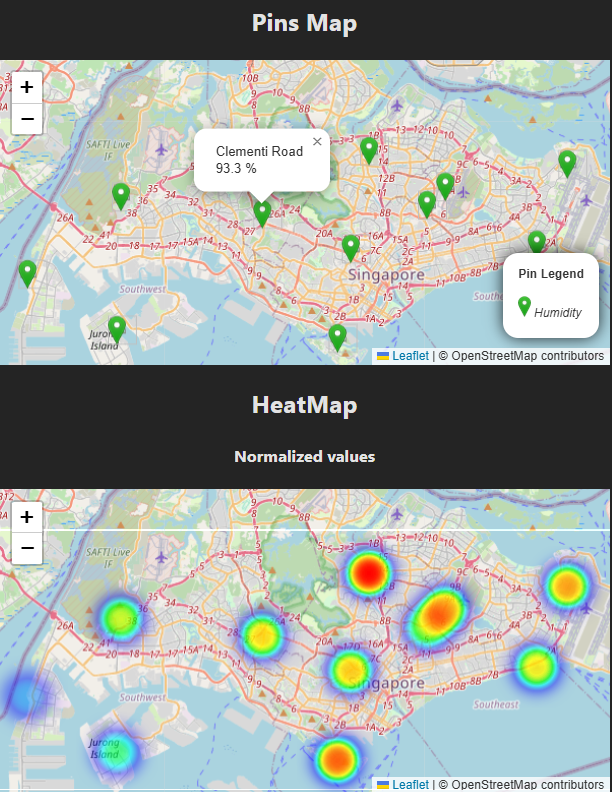
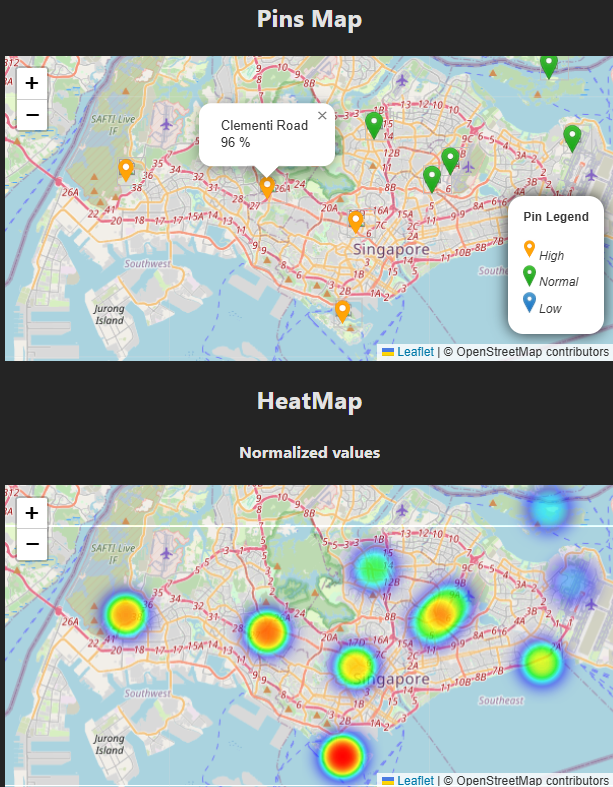
added threshold for the local weather

diff --git a/components/MapWeatherLocal.jsx b/components/MapWeatherLocal.jsx
@@ -17,24 +17,38 @@ const MapWeatherLocal = ({ centerCoordinate, zoomValue, type, weatherData }) => 
     const [legendIconDescList, setLegendIconDescList] = useState()
     const [legendHtml, setLegendHtml] = useState()
     const [isWindData, setIsWindData] = useState(false)
+    const [upperThreshold, setUpperThreshold] = useState(null)
+    const [lowerThreshold, setLowerThreshold] = useState(null)
 
     useEffect(() => {
         if (type == "air_temp") {
-            setLegendIconDescList(["Air Temp"])
+            setLegendIconDescList(["High", "Normal", "Low"])
+            setLegendIconColorList(["-orange", "-green", ""])
+            setUpperThreshold(34)
+            setLowerThreshold(23)
         }
         else if (type == "rainfall") {
-            setLegendIconDescList(["Rainfall"])
+            setLegendIconDescList(["Rain", "Dry"])
+            setLegendIconColorList(["-orange", "-green"])
+            setUpperThreshold(0.001)
+            setLowerThreshold(null)
         }
         else if (type == "relative_humidity") {
-            setLegendIconDescList(["Humidity"])
+            setLegendIconDescList(["High", "Normal", "Low"])
+            setLegendIconColorList(["-orange", "-green", ""])
+            setUpperThreshold(90)
+            setLowerThreshold(60)
         }
         else if (type == "wind_direction") {
-            setLegendIconDescList(["Wind Direction"])
+            
             setLegendIconColorList(["-arrow"])
             setIsWindData(true)
         }
         else if (type == "wind_speed") {
-            setLegendIconDescList(["Wind Speed"])
+            setLegendIconDescList(["High", "Normal", "Low"])
+            setLegendIconColorList(["-orange", "-green", ""])
+            setUpperThreshold(30)
+            setLowerThreshold(5)
         }
     }, [type]);
 
@@ -60,7 +74,9 @@ const MapWeatherLocal = ({ centerCoordinate, zoomValue, type, weatherData }) => 
           { weatherStations ? 
             ( isWindData ? 
                 <ArrowsLayer locations={weatherStations}/> :
-                <PinsLayer locations={weatherStations} color="green" />
+                <PinsLayer locations={weatherStations} 
+                           upper_threshold={upperThreshold} 
+                           lower_threshold={lowerThreshold} />
             ) : 
             <></>
           }

diff --git a/components/PinsLayer.jsx b/components/PinsLayer.jsx
@@ -1,11 +1,10 @@
 import { Marker, Popup } from 'react-leaflet';
 import { getIcons } from '../scripts/MapUtils.js'
 
-const PinsLayer = ( {locations, color} ) => {
+const PinsLayer = ( {locations, upper_threshold, lower_threshold} ) => {
 
-  const { redIcon, 
-          greenIcon, 
-          orangeIcon, 
+  const { orangeIcon, 
+          greenIcon,  
           defaultIcon 
         } = getIcons(0.7);
 
@@ -16,10 +15,9 @@ const PinsLayer = ( {locations, color} ) => {
             <Marker key={idx} 
                     position={[loc.lat, loc.lon]}
                     // Customize pins here
-                    icon={color==="red" ? redIcon :
-                          color==="green" ? greenIcon : 
-                          color==="orange" ? orangeIcon: defaultIcon} 
-            >
+                    icon={(loc.value >= upper_threshold) ? orangeIcon : 
+                          (lower_threshold && loc.value <= lower_threshold) ? defaultIcon : greenIcon }
+            > 
               { loc.name ?
                   <Popup>{loc.name}<br/>{loc.label}</Popup> :
                   <Popup>{loc.label}</Popup>

diff --git a/scripts/ConversionUtils.js b/scripts/ConversionUtils.js
@@ -24,7 +24,8 @@ export function convertWeatherData(data) {
         const item2_value = map2.get(item1.id);
         return item2_value >= 0 ? { id: item1.id, 
                                 name: item1.name, 
-                                label: `${item2_value} ${readingUnit}`, 
+                                label: `${item2_value} ${readingUnit}`,
+                                value: item2_value,
                                 lat: item1.location['latitude'], 
                                 lon: item1.location['longitude'],
                               } : null;

diff --git a/pages/ViewWeatherLocalByRainfall.jsx b/pages/ViewWeatherLocalByRainfall.jsx
@@ -20,7 +20,7 @@ const ViewWeatherLocalByRainfall = () => {
             const results = convertWeatherData(data)
             setWeatherData(results.location_data)
             setHeatmapPoints(results.heatmap_data)
-            const normalizeData = normalizeToRange(results.heatmap_data)
+            const normalizeData = normalizeToRange(results.heatmap_data, 0, 1)
             setNormalizedHeatmapPoints(normalizeData)
         }
     }, [data]);
